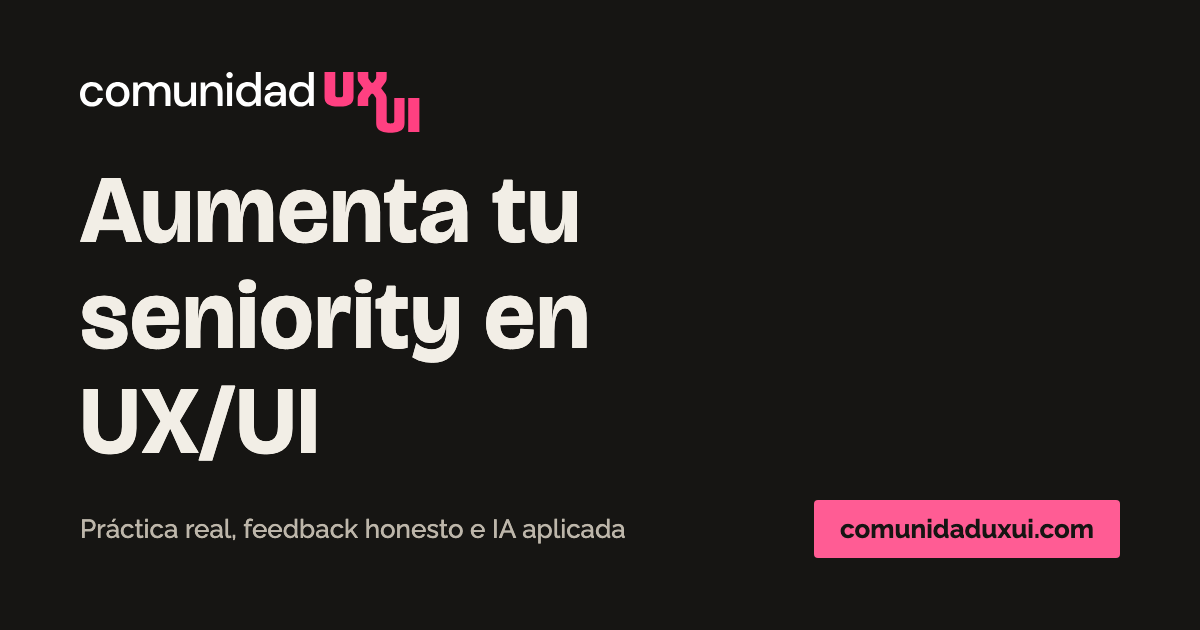
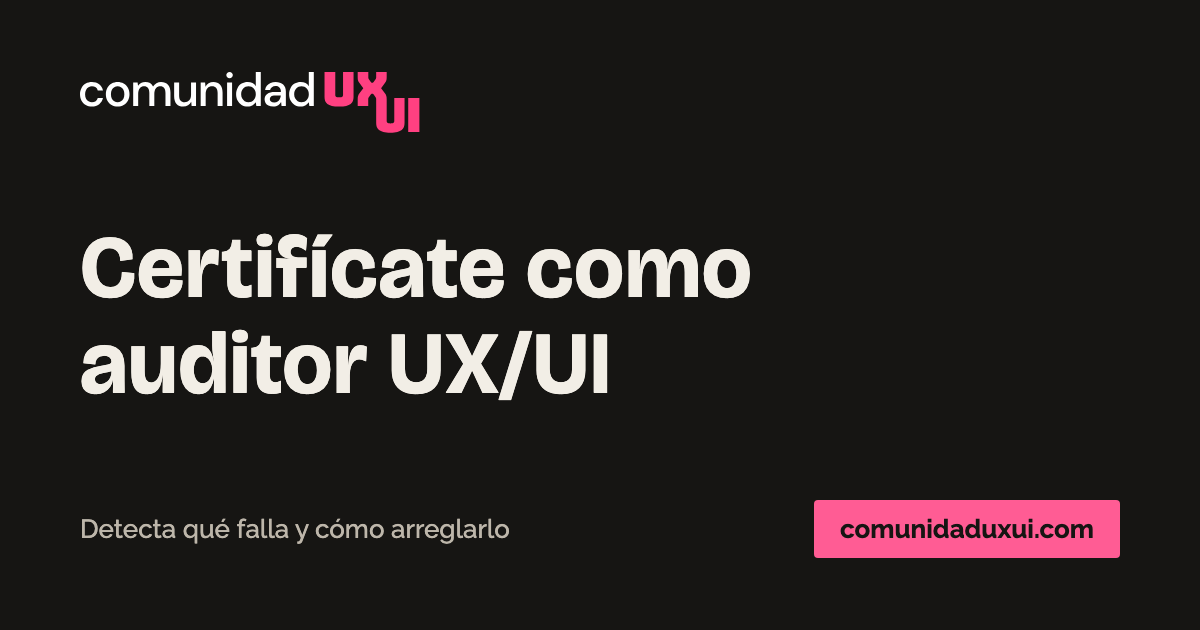
Home: Certifícate como auditor UX/UI (nueva oferta, sin «seniority»)

Changed region(s): [[0.0617, 0.2714, 0.6475, 0.754], [0.0617, 0.8143, 0.5242, 0.8746]]

diff --git a/index.html b/index.html
@@ -3,13 +3,13 @@
 <head>
 <meta charset="UTF-8">
 <meta name="viewport" content="width=device-width, initial-scale=1">
-<title>Comunidad UXUI</title>
-<meta name="description" content="Aumenta tu seniority en UX/UI con práctica real, feedback honesto e IA aplicada a tu proceso. Una comunidad en español que acompaña.">
+<title>Certificación en auditoría UX/UI | Comunidad UXUI</title>
+<meta name="description" content="Certifícate como auditor UX/UI: evaluación heurística, usabilidad y accesibilidad con el método de Anita Sevilla Ull, con más de 130 auditorías para empresas.">
 <link rel="canonical" href="https://comunidaduxui.com/">
 <meta property="og:type" content="website">
 <meta property="og:url" content="https://comunidaduxui.com/">
-<meta property="og:title" content="Comunidad UXUI">
-<meta property="og:description" content="Aumenta tu seniority en UX/UI con práctica real, feedback honesto e IA aplicada a tu proceso. Una comunidad en español que acompaña.">
+<meta property="og:title" content="Certifícate como auditor UX/UI · Comunidad UXUI">
+<meta property="og:description" content="Certifícate como auditor UX/UI: evaluación heurística, usabilidad y accesibilidad con el método de Anita Sevilla Ull, con más de 130 auditorías para empresas.">
 <meta property="og:image" content="https://comunidaduxui.com/assets/og.png">
 <meta property="og:image:width" content="1200">
 <meta property="og:image:height" content="630">
@@ -22,6 +22,9 @@
 <link rel="preconnect" href="https://fonts.googleapis.com">
 <link rel="preconnect" href="https://fonts.gstatic.com" crossorigin>
 <link rel="stylesheet" href="https://fonts.googleapis.com/css2?family=Bricolage+Grotesque:opsz,wght@12..96,500;12..96,700&family=Raleway:wght@400;500;600;700&display=swap">
+<script type="application/ld+json">
+{"@context":"https://schema.org","@type":"EducationalOrganization","name":"Comunidad UXUI","url":"https://comunidaduxui.com/","logo":"https://comunidaduxui.com/assets/favicon.png","description":"Certificación en auditoría UX/UI para diseñadores.","founder":{"@type":"Person","name":"Anita Sevilla Ull"},"sameAs":["https://www.skool.com/comunidaduxui","https://www.instagram.com/comunidaduxui/","https://www.youtube.com/@ComunidadUXUI","https://www.linkedin.com/company/comunidaduxui"]}
+</script>
 <style>
 :root {
   --papel: #F6F4EF;
@@ -86,8 +89,15 @@ a { color: inherit; }
   .logo-claro { display: none; }
   .logo-oscuro { display: block; }
 }
-.hero h1 { font-size: clamp(2.1rem, 7vw, 3.8rem); max-width: 14ch; margin: 0 auto; }
-.hero .bajada { color: var(--grafito); font-size: clamp(1.02rem, 2.4vw, 1.2rem); max-width: 38ch; margin: 1rem auto 0; text-wrap: pretty; }
+.hero .antetitulo { font-weight: 700; font-size: .95rem; letter-spacing: .06em; text-transform: uppercase; color: var(--acento); margin: 0 0 .8rem; }
+.hero h1 { font-size: clamp(2.3rem, 7.5vw, 4rem); max-width: 16ch; margin: 0 auto; }
+.hero .bajada { color: var(--tinta); font-size: clamp(1.08rem, 2.6vw, 1.3rem); max-width: 40ch; margin: 1.1rem auto 0; text-wrap: pretty; }
+.hero .prueba { color: var(--grafito); font-size: .98rem; max-width: 48ch; margin: .9rem auto 0; text-wrap: pretty; }
+.hero .aviso { color: var(--grafito); font-size: .9rem; margin-top: .7rem; }
+.camino { list-style: none; padding: 0; margin: clamp(2rem, 6vh, 3rem) auto 0; max-width: 46rem; display: grid; gap: .9rem 2rem; text-align: left; }
+@media (min-width: 720px) { .camino { grid-template-columns: 1fr 1fr; } }
+.camino li { padding-left: 1.6rem; position: relative; line-height: 1.5; }
+.camino li::before { content: "✓"; position: absolute; left: 0; top: 0; color: var(--acento); font-weight: 700; }
 .boton {
   display: inline-block;
   margin-top: clamp(1.5rem, 4vh, 2.25rem);
@@ -147,22 +157,54 @@ a { color: inherit; }
   <header class="hero wrap">
     <img class="logo logo-claro" src="assets/horizontal-texto-negro.svg" alt="Comunidad UXUI" width="335" height="60">
     <img class="logo logo-oscuro" src="assets/horizontal-texto-blanco.svg" alt="Comunidad UXUI" width="335" height="60">
-    <h1>Aumenta tu seniority en UX/UI</h1>
-    <p class="bajada">Práctica real, feedback honesto e IA aplicada a tu proceso, en una comunidad en español que acompaña.</p>
-    <a class="boton" data-boton="arriba" href="https://www.skool.com/comunidaduxui/about">Ir a la comunidad</a>
+    <p class="antetitulo">Certificación en auditoría UX/UI</p>
+    <h1>Certifícate como auditor UX/UI</h1>
+    <p class="bajada">Prepárate para el nuevo rol del diseñador de producto: ya no es mover píxeles, es detectar qué falla en un producto digital y saber cómo arreglarlo.</p>
+    <p class="prueba">Con el método de Anita Sevilla Ull: más de 130 auditorías para empresas y más de 10 años en diseño de producto (Globant, Dow Jones, EY).</p>
+    <a class="boton" data-boton="arriba" href="https://www.skool.com/comunidaduxui/about">Quiero certificarme</a>
+    <p class="aviso">Certificación incluida en el plan VIP. Planes y precios en Skool.</p>
+    <ul class="camino">
+      <li>Con plantillas y checklists listos para usar, aprendes evaluación heurística, usabilidad, accesibilidad y contenido.</li>
+      <li>Practicas desde el primer paso y comparas tu trabajo con ejemplos resueltos.</li>
+      <li>Sumas a tu portfolio una auditoría certificada que demuestra que sabes detectar qué falla y cómo arreglarlo.</li>
+      <li>Anita revisa tu auditoría final antes de certificarte.</li>
+    </ul>
   </header>
 
-  <section class="muro wrap" aria-labelledby="t-comunidad">
-    <h2 id="t-comunidad">Lo que cuentan quienes ya están adentro</h2>
-    <p class="nota">Reseñas, posts y mensajes reales de la comunidad.</p>
+  <section class="muro wrap" aria-labelledby="t-resenas">
+    <h2 id="t-resenas">Lo que cuentan quienes aprendieron con Anita</h2>
+    <p class="nota">Reseñas públicas, encuestas y mensajes reales.</p>
     <div class="columnas">
 
       <figure class="resena">
         <blockquote>
-          <p class="titular">Tengo trabajo gracias a la Comunidad UX/UI.</p>
-          <p>Vengo de ser la única diseñadora en mi equipo de 20 desarrolladores, por lo que al fin hablar con alguien de diseño fue terapéutico.</p>
+          <p class="titular">Me ha ayudado a despejar dudas sobre el desarrollo de una evaluación heurística.</p>
+          <p>Cada sesión con Anita es aprendizaje asegurado.</p>
         </blockquote>
-        <figcaption><span class="nombre">Luisa</span> <span class="quien">· UX designer</span><span class="fuente">Post en la comunidad</span></figcaption>
+        <figcaption><span class="nombre">Magdalena</span> <span class="quien">· diseñadora UX</span><span class="fuente">Reseña en ADPList</span></figcaption>
+      </figure>
+
+      <figure class="resena">
+        <blockquote>
+          <p class="titular">Me ayudó a revisar cómo estoy haciendo las propuestas y entendiendo los pedidos y entregables.</p>
+          <p>He estado aprendiendo sobre auditorías UX. También tomé su curso de Auditorías UX.</p>
+        </blockquote>
+        <figcaption><span class="nombre">Valeria</span> <span class="quien">· diseñadora freelance</span><span class="fuente">Reseña en ADPList</span></figcaption>
+      </figure>
+
+      <figure class="resena">
+        <blockquote>
+          <p class="titular">Una de las cosas que más me gustó fue pensar en mi capacidad y valor como diseñador para ofrecer una solución, en este caso una auditoría.</p>
+        </blockquote>
+        <figcaption><span class="nombre">Alumno del curso de auditoría UX de Anita</span><span class="fuente">Encuesta anónima de cierre</span></figcaption>
+      </figure>
+
+      <figure class="resena">
+        <blockquote>
+          <p class="titular">Me sirvió aclarar los pasos para el proceso.</p>
+          <p>Saber que estaba haciendo bien y cómo podía complementar lo que he estado haciendo de auditorías.</p>
+        </blockquote>
+        <figcaption><span class="nombre">Alumna del curso de auditoría UX de Anita</span><span class="fuente">Encuesta anónima de cierre</span></figcaption>
       </figure>
 
       <figure class="resena">
@@ -170,15 +212,7 @@ a { color: inherit; }
           <p class="titular">Llegué saturada, terminé sin poder parar de crear.</p>
           <p>Coleccionaba skills, las probaba y no llegaba a buenos resultados. Con la mentoría de Anita logré finalmente automatizar mi propio proceso de diseño: menos tiempo de ejecución y más tiempo de pensamiento estratégico.</p>
         </blockquote>
-        <figcaption><span class="nombre">Victoria</span> <span class="quien">· diseñadora de experiencias</span><span class="fuente">Post en la comunidad</span></figcaption>
-      </figure>
-
-      <figure class="resena">
-        <blockquote>
-          <p class="titular">Hoy me han dado la respuesta que tanto esperaba: el puesto es mío.</p>
-          <p>Solo puedo decir gracias a esta comunidad y a la gente de aquí que me ha respondido una duda, me ha dado un consejo o ha compartido su experiencia sin pedir nada a cambio.</p>
-        </blockquote>
-        <figcaption><span class="nombre">Diego</span> <span class="quien">· Product Designer, antes desarrollador web</span><span class="fuente">Post en la comunidad</span></figcaption>
+        <figcaption><span class="nombre">Victoria</span> <span class="quien">· UX Lead</span><span class="fuente">Post en la comunidad</span></figcaption>
       </figure>
 
       <figure class="resena">
@@ -191,88 +225,17 @@ a { color: inherit; }
 
       <figure class="resena">
         <blockquote>
-          <p class="titular">Uno llega buscando respuestas y termina encontrando apoyo, claridad y ese empujoncito que hace falta para creérselo de verdad.</p>
+          <p class="titular">Un espacio donde uno no solo aprende, sino que piensa acompañado.</p>
         </blockquote>
         <figcaption><span class="nombre">Clarise</span> <span class="quien">· diseñadora UX/UI</span><span class="fuente">Comentario en la comunidad</span></figcaption>
-      </figure>
-
-      <figure class="resena">
-        <blockquote>
-          <p class="titular">Valoro su lado humano: el apoyo, la cercanía y la motivación.</p>
-          <p>Las prácticas grupales nos permiten aplicar lo aprendido y ganar confianza para acercarnos a nuestras metas profesionales.</p>
-        </blockquote>
-        <figcaption><span class="nombre">Katerine</span> <span class="quien">· Service &amp; UX Designer</span><span class="fuente">Reseña en Skool</span></figcaption>
-      </figure>
-
-      <figure class="resena">
-        <blockquote>
-          <p class="titular">Lo que más valoro es el compañerismo.</p>
-          <p>Poder hacer preguntas, aprender juntos, compartir ideas y ayudarnos en el camino.</p>
-        </blockquote>
-        <figcaption><span class="nombre">Sarah</span> <span class="quien">· diseñadora UX/UI</span><span class="fuente">Reseña en Skool</span></figcaption>
-      </figure>
-
-      <figure class="resena">
-        <blockquote>
-          <p class="titular">Podemos compartir dudas, miedos y logros.</p>
-          <p>Ambientes como este nos ayudan muchísimo a ir mejorando y sentirnos escuchados y motivados.</p>
-        </blockquote>
-        <figcaption><span class="nombre">María de los Ángeles</span> <span class="quien">· Visual Designer</span><span class="fuente">Comentario en la comunidad</span></figcaption>
-      </figure>
-
-      <figure class="resena">
-        <blockquote>
-          <p class="titular">Es un espacio seguro para aprender y compartir.</p>
-        </blockquote>
-        <figcaption><span class="nombre">Natali</span> <span class="quien">· diseñadora gráfica y UX/UI</span><span class="fuente">Reseña en Skool</span></figcaption>
-      </figure>
-
-    </div>
-  </section>
-
-  <section class="muro wrap" aria-labelledby="t-mentorias">
-    <h2 id="t-mentorias">Lo que dicen de las mentorías con Anita Sevilla Ull</h2>
-    <p class="nota"><span>Anita fundó la comunidad y la acompaña todos los días.</span> <span>Estas son reseñas públicas de sus mentorías individuales.</span></p>
-    <div class="columnas">
-
-      <figure class="resena">
-        <blockquote>
-          <p class="titular">Anita es una gran profesional y una excelente mentora.</p>
-          <p>Fue honesta y precisa. Me ayudó a ordenarme y me dio una guía para mi transición a UX/UI.</p>
-        </blockquote>
-        <figcaption><span class="nombre">Juana</span> <span class="quien">· diseñadora de imagen y sonido</span><span class="fuente">Reseña en ADPList</span></figcaption>
-      </figure>
-
-      <figure class="resena">
-        <blockquote>
-          <p class="titular">Si sos junior y tenés problemas para destacarte, hablá con Anita.</p>
-          <p>Descubrió enseguida un problema de comunicación que no sabía que tenía.</p>
-        </blockquote>
-        <figcaption><span class="nombre">Regina</span> <span class="quien">· UX Designer</span><span class="fuente">Reseña en ADPList</span></figcaption>
-      </figure>
-
-      <figure class="resena">
-        <blockquote>
-          <p class="titular">Cada sesión con Anita es aprendizaje asegurado.</p>
-          <p>No solo te escucha atentamente, sino que también se involucra en el problema que estás tratando de resolver.</p>
-        </blockquote>
-        <figcaption><span class="nombre">Magdalena</span> <span class="quien">· diseñadora UX</span><span class="fuente">Reseña en ADPList</span></figcaption>
-      </figure>
-
-      <figure class="resena">
-        <blockquote>
-          <p class="titular">Recomiendo mucho a Anita.</p>
-          <p>Me ayudó a ordenar mis ideas y a hacerme las preguntas relevantes para avanzar en mi proceso.</p>
-        </blockquote>
-        <figcaption><span class="nombre">Nico</span> <span class="quien">· Project Manager, en transición a UX</span><span class="fuente">Reseña en ADPList</span></figcaption>
       </figure>
 
     </div>
   </section>
 
   <section class="cierre wrap" aria-labelledby="t-cierre">
-    <h2 id="t-cierre">Te esperamos adentro</h2>
-    <a class="boton" data-boton="abajo" href="https://www.skool.com/comunidaduxui/about">Ir a la comunidad</a>
+    <h2 id="t-cierre">Empieza tu camino de auditor UX/UI</h2>
+    <a class="boton" data-boton="abajo" href="https://www.skool.com/comunidaduxui/about">Quiero certificarme</a>
   </section>
 </main>
 
